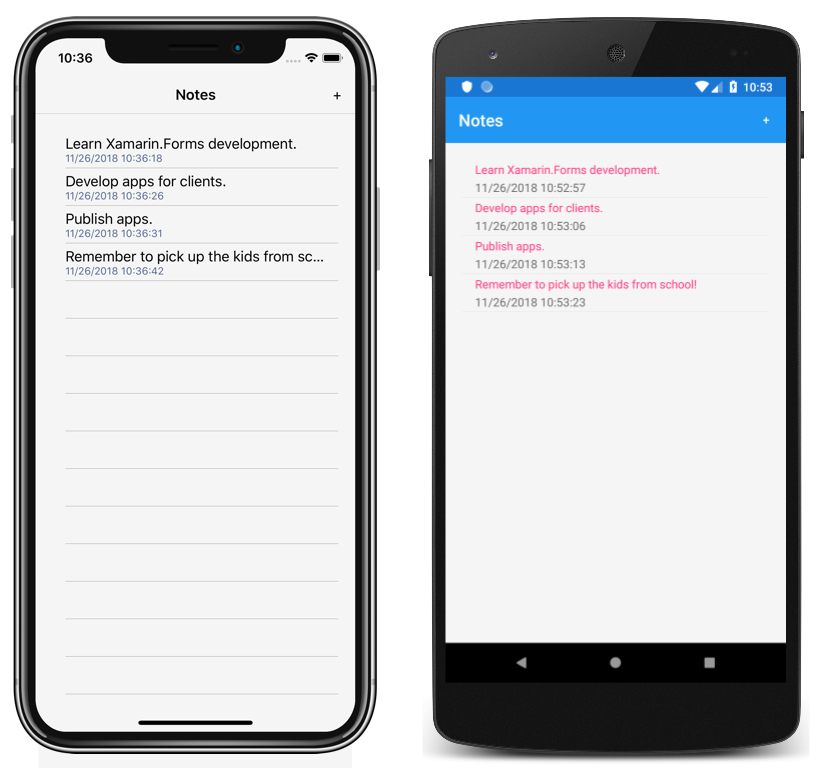
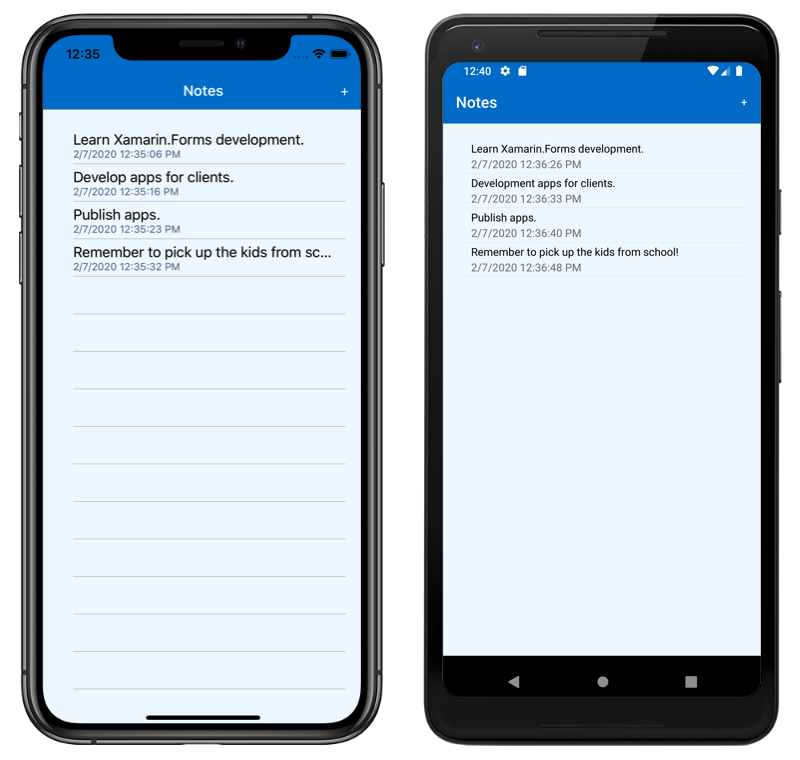
Styling update.

Changed region(s): [[0.0, 0.0, 1.0, 0.9987], [0.8125, 0.3026, 0.8438, 0.3329]]

diff --git a/GetStarted/Notes/Styled/Notes/App.xaml b/GetStarted/Notes/Styled/Notes/App.xaml
@@ -7,18 +7,16 @@
         <Thickness x:Key="PageMargin">20</Thickness>
         
         <!-- Colors -->
-        <Color x:Key="AppBackgroundColor">WhiteSmoke</Color>
-        <Color x:Key="iOSNavigationBarColor">WhiteSmoke</Color>
-        <Color x:Key="AndroidNavigationBarColor">#2196F3</Color>
-        <Color x:Key="iOSNavigationBarTextColor">Black</Color>
-        <Color x:Key="AndroidNavigationBarTextColor">White</Color>
+        <Color x:Key="AppBackgroundColor">AliceBlue</Color>
+        <Color x:Key="NavigationBarColor">#1976D2</Color>
+        <Color x:Key="NavigationBarTextColor">White</Color>
         
         <!-- Implicit styles -->
         <Style TargetType="{x:Type NavigationPage}">
             <Setter Property="BarBackgroundColor"
-                    Value="{OnPlatform iOS={StaticResource iOSNavigationBarColor}, Android={StaticResource AndroidNavigationBarColor}}" />
+                    Value="{StaticResource NavigationBarColor}" />
              <Setter Property="BarTextColor"
-                    Value="{OnPlatform iOS={StaticResource iOSNavigationBarTextColor}, Android={StaticResource AndroidNavigationBarTextColor}}" />           
+                    Value="{StaticResource NavigationBarTextColor}" />           
         </Style>
         
         <Style TargetType="{x:Type ContentPage}"

diff --git a/GetStarted/Notes/Styled/Notes/NoteEntryPage.xaml b/GetStarted/Notes/Styled/Notes/NoteEntryPage.xaml
@@ -14,8 +14,8 @@
                ApplyToDerivedTypes="True" 
                CanCascade="True">
             <Setter Property="FontSize" Value="Medium" />
-            <Setter Property="BackgroundColor" Value="LightGray" />
-            <Setter Property="TextColor" Value="Black" />
+            <Setter Property="BackgroundColor" Value="#1976D2" />
+            <Setter Property="TextColor" Value="White" />
             <Setter Property="CornerRadius" Value="5" />
         </Style>
     </ContentPage.Resources>

diff --git a/GetStarted/Notes/Styled/Notes/NotesPage.xaml b/GetStarted/Notes/Styled/Notes/NotesPage.xaml
@@ -22,9 +22,10 @@
         <ListView.ItemTemplate>
             <DataTemplate>
                 <TextCell Text="{Binding Text}"
+                          TextColor="Black"
                           Detail="{Binding Date}" />
             </DataTemplate>
         </ListView.ItemTemplate>
     </ListView>
-    
+
 </ContentPage>
